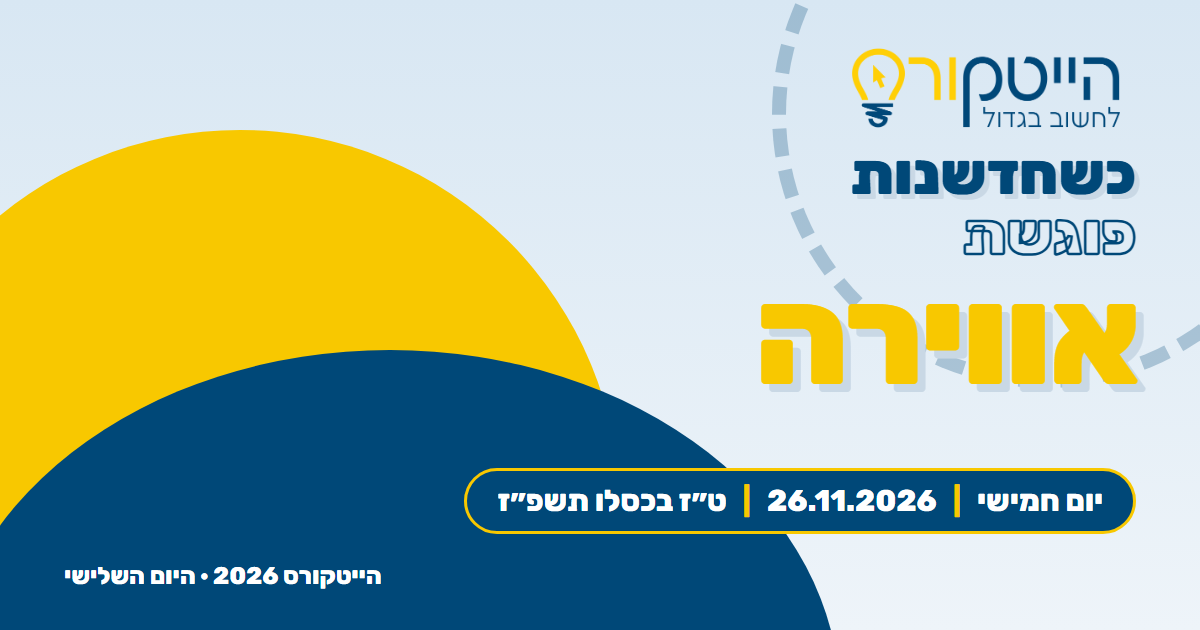
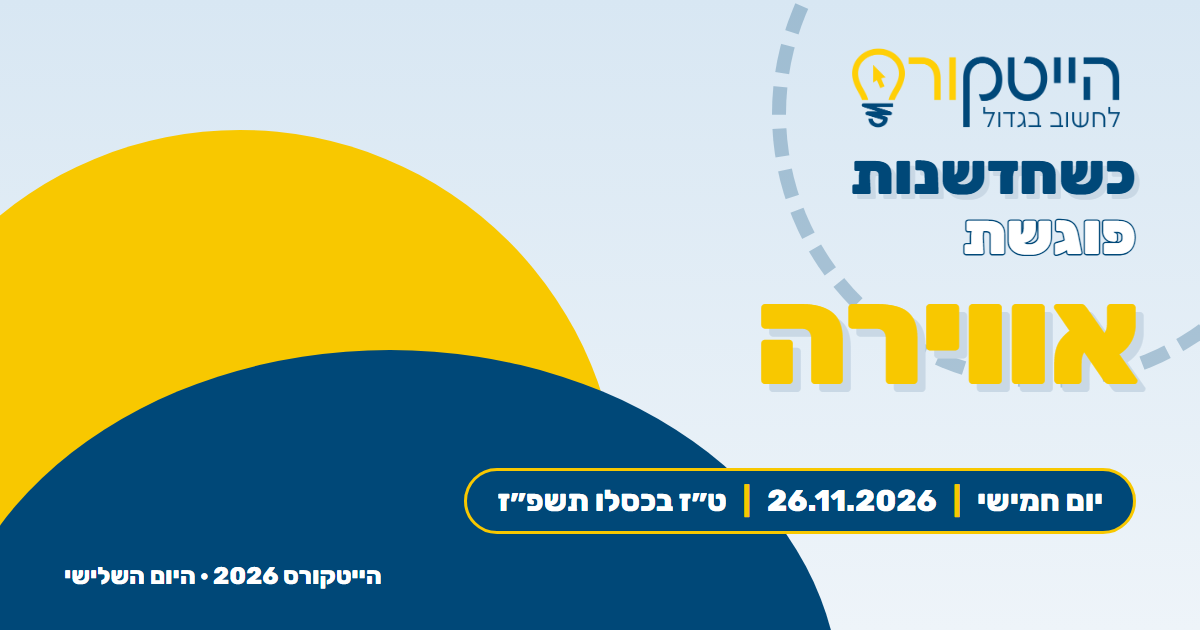
דף הכנס: ״פוגשת״ נקייה, השמות מודגשים, הלוגו של נירית כהן, כרטיס הקבוצה מסודר
The owner's third round (18.11):
- ״פוגשת״ is white with a navy outline (paint-order: stroke fill) - the
  variable font's overlapping contours no longer show as inner lines; the
  share image follows
- ״שבת״ set 1.5× bigger in ״למה לא כל יום שבת.״; the trailing ״..״ after
  ״עונג שבת״ is gone
- the three names (נירית כהן, שירי נשיא, אסתי בר נתן) get a yellow marker
  wherever they appear, a navy pill in the marquee; Nirit Cohen's logo sits
  at the end of the 11:00 row (public/hightecourse-2026/nirit-cohen.png)
- the pricing section lost its heading and the line under it
- the group card: the ribbon moved to the free top-left corner (it covered
  the icon and was clipped), the line through 650 now crosses the digits
- the closing band asks ״לשמור לך מקום?״
- under the headline, her explanation in her words with the emphases in
  navy (״ה-AI מייעל את העבודה… והדרך לשמור על שפיות בעולם התזזיתי שלנו״)
- hc-check: 9 new steps (83)

Changed region(s): [[0.8017, 0.3317, 0.9558, 0.4222]]

diff --git a/src/app/hightecourse-2026/landing.tsx b/src/app/hightecourse-2026/landing.tsx
@@ -6,7 +6,7 @@ import { useEffect, useRef, useState } from "react";
 import { ArrowDown, ArrowLeft, Users, User } from "lucide-react";
 import { H, LOGO, TAGLINE } from "@/app/ai-course/theme";
 import { CONTACT_EMAIL, DAY, PATHS, PRICE, nis } from "@/lib/conference-shared";
-import { MARQUEE, SCHEDULE } from "./content";
+import { MARQUEE, NAMES, SCHEDULE } from "./content";
 
 /*
   The conference's marketing page. Everything that moves, moves with the
@@ -147,7 +147,7 @@ export function Landing() {
         .hc-word { font-weight: 900; line-height: .9; letter-spacing: -0.02em; }
         .hc-word-yellow { color: ${H.yellow}; text-shadow: 7px 7px 0 ${GREY}; }
         .hc-word-navy { color: ${H.navy}; text-shadow: 6px 6px 0 ${GREY}; }
-        .hc-word-outline { color: transparent; -webkit-text-stroke: 2px ${H.navy}; }
+        .hc-word-outline { color: #fff; -webkit-text-stroke: 3px ${H.navy}; paint-order: stroke fill; }
         .hc-pill { display: inline-flex; flex-wrap: wrap; justify-content: center; align-items: center; gap: 2px 14px; color: #fff; background: ${H.navy}; border-radius: 999px; padding: 12px 30px; font-weight: 800; box-shadow: 0 16px 34px rgba(0,72,120,.24); max-width: 100%; }
         .hc-pill > span { white-space: nowrap; }
         .hc-btn { display: inline-flex; align-items: center; justify-content: center; gap: 10px; border-radius: 999px; font-weight: 800; transition: transform .25s ease, box-shadow .25s ease, background .25s ease; text-decoration: none; }
@@ -182,13 +182,17 @@ export function Landing() {
         .hc-row-body { background: #fff; border-radius: 18px; padding: 14px 18px; box-shadow: 0 8px 22px rgba(0,72,120,.08); }
         .hc-row-title { font-weight: 800; color: ${H.ink}; font-size: 17.5px; }
         .hc-row-sub { color: ${H.muted}; font-size: 15.5px; margin-top: 2px; }
-        .hc-name { color: ${H.navy}; font-weight: 700; }
+        .hc-name { color: ${H.navy}; font-weight: 900; padding: 0 3px; box-shadow: inset 0 -0.42em ${H.yellowSoft}; }
+        .hc-track .hc-name { background: ${H.navy}; color: ${H.yellow}; padding: 2px 12px; border-radius: 999px; box-shadow: none; }
+        .hc-big { font-size: 1.5em; font-weight: 900; color: ${H.navy}; line-height: 1; }
+        .hc-row-flex { display: flex; align-items: center; justify-content: space-between; gap: 14px; flex-wrap: wrap; }
+        .hc-row-logo { height: 46px; width: auto; flex: none; }
         .hc-price { border-radius: 30px; padding: 30px 28px; position: relative; overflow: hidden; }
         .hc-price-single { background: ${TINT}; }
         .hc-price-group { background: ${H.navy}; color: #fff; }
-        .hc-badge { position: absolute; top: 18px; inset-inline-start: -34px; transform: rotate(45deg); background: ${H.yellow}; color: ${H.navy}; font-weight: 800; font-size: 13px; padding: 6px 44px; }
-        .hc-strike { position: relative; display: inline-block; opacity: .75; }
-        .hc-strike::after { content: ""; position: absolute; inset-inline: -4px; top: 52%; height: 3px; background: ${H.yellow}; transform: rotate(-8deg) scaleX(0); transform-origin: right; transition: transform .6s ease .6s; }
+        .hc-badge { position: absolute; top: 34px; left: -48px; width: 200px; text-align: center; transform: rotate(-45deg); background: ${H.yellow}; color: ${H.navy}; font-weight: 800; font-size: 13px; padding: 7px 0; box-shadow: 0 6px 16px rgba(0,0,0,.18); }
+        .hc-strike { position: relative; display: inline-block; opacity: .85; line-height: 1; }
+        .hc-strike::after { content: ""; position: absolute; inset-inline: -5px; top: 46%; height: 3px; background: ${H.yellow}; transform: rotate(-6deg) scaleX(0); transform-origin: right; transition: transform .6s ease .6s; }
         .hc-in .hc-strike::after { transform: rotate(-8deg) scaleX(1); }
         .hc-wave { display: block; width: 100%; height: auto; }
         @media (max-width: 640px) {
@@ -259,7 +263,14 @@ export function Landing() {
                 אווירה
               </span>
             </h1>
-            <div className="hc-reveal mt-8" style={{ ["--d" as string]: "600ms" }}>
+            <p className="hc-reveal mt-6 max-w-xl text-[17px] leading-relaxed sm:text-[19px]" style={{ color: H.ink, ["--d" as string]: "540ms" }} data-testid="hc-hero-text">
+              ה-AI מייעל את העבודה, מעלה את הקצב. <b style={{ color: H.navy }}>אבל איך הוא משפיע עלינו?</b>
+              <br className="hidden sm:inline" />
+              יום שלם של <b style={{ color: H.navy }}>דיון, שיקוף וידע מקצועי</b> על השפעת ה-AI עלינו <b style={{ color: H.navy }}>כבני אדם</b>,
+              <br className="hidden sm:inline" />
+              והדרך <b style={{ color: H.navy }}>לשמור על שפיות</b> בעולם התזזיתי שלנו.
+            </p>
+            <div className="hc-reveal mt-7" style={{ ["--d" as string]: "640ms" }}>
               <span className="hc-pill text-[20px] sm:text-[26px]" data-testid="hc-date">
                 <span>{DAY.label}</span>
                 <span aria-hidden style={{ color: H.yellow }}>
@@ -272,7 +283,7 @@ export function Landing() {
                 <span>{DAY.hebrew}</span>
               </span>
             </div>
-            <div className="hc-reveal mt-9 flex flex-wrap items-center gap-4" style={{ ["--d" as string]: "720ms" }}>
+            <div className="hc-reveal mt-8 flex flex-wrap items-center gap-4" style={{ ["--d" as string]: "760ms" }}>
               <Link href={REGISTER} className="hc-btn hc-btn-primary" data-testid="hc-hero-cta">
                 הרשמי עכשיו
                 <ArrowLeft size={20} strokeWidth={2.6} />
@@ -318,7 +329,7 @@ export function Landing() {
             <span key={copy} dir="rtl">
               {MARQUEE.map((m) => (
                 <span key={m}>
-                  {m}
+                  {markup(m, marks(NAMES))}
                   <i />
                 </span>
               ))}
@@ -354,10 +365,13 @@ export function Landing() {
                   {s.time}
                 </div>
                 <div aria-hidden />
-                <div className="hc-row-body">
-                  <div className="hc-row-title">{s.title}</div>
-                  {s.sub && <div className="hc-row-sub">{s.names?.length ? highlightNames(s.sub, s.names) : s.sub}</div>}
-                  {s.hand && <div className="hc-hand mt-1 text-[15px]">{s.hand}</div>}
+                <div className={`hc-row-body${s.logo ? " hc-row-flex" : ""}`}>
+                  <div>
+                    <div className="hc-row-title">{markup(s.title, marks(s.names, s.big))}</div>
+                    {s.sub && <div className="hc-row-sub">{markup(s.sub, marks(s.names))}</div>}
+                    {s.hand && <div className="hc-hand mt-1 text-[15px]">{s.hand}</div>}
+                  </div>
+                  {s.logo && <Image src={s.logo.src} alt={s.logo.alt} width={s.logo.width} height={s.logo.height} className="hc-row-logo" />}
                 </div>
               </div>
             ))}
@@ -367,15 +381,7 @@ export function Landing() {
 
       {/* pricing */}
       <section id="pricing" className="mx-auto max-w-6xl px-5 py-20 sm:py-24">
-        <div className="hc-reveal max-w-2xl">
-          <h2 className="text-[34px] font-black leading-tight sm:text-[46px]" style={{ color: H.navy }}>
-            ההרשמה ליום חמישי
-          </h2>
-          <p className="mt-3 text-[17px] leading-relaxed" style={{ color: H.muted }}>
-            לבד או עם הצוות - בוחרות, ממלאות פרטים, ומשלמות בכרטיס אשראי או בהעברה בנקאית מול חשבונית.
-          </p>
-        </div>
-        <div className="mt-10 grid gap-6 md:grid-cols-2" data-testid="hc-pricing">
+        <div className="grid gap-6 md:grid-cols-2" data-testid="hc-pricing">
           <div className="hc-price hc-price-single hc-reveal hc-from-right">
             <div className="flex items-center gap-3">
               <span className="inline-flex h-12 w-12 items-center justify-center rounded-2xl" style={{ background: H.white, color: H.navy }}>
@@ -404,7 +410,7 @@ export function Landing() {
           <div className="hc-price hc-price-group hc-reveal hc-from-left" style={{ ["--d" as string]: "140ms" }}>
             <div className="hc-badge">מחיר מיוחד לקבוצות</div>
             <div className="flex items-center gap-3">
-              <span className="inline-flex h-12 w-12 items-center justify-center rounded-2xl" style={{ background: "rgba(255,255,255,.14)", color: H.yellow }}>
+              <span className="inline-flex h-12 w-12 items-center justify-center rounded-2xl" style={{ background: "rgba(255,255,255,.14)", color: H.yellow }} data-testid="hc-group-icon">
                 <Users size={24} strokeWidth={2.4} />
               </span>
               <h3 className="text-[24px] font-black text-white">קבוצה - מעל {PRICE.groupMin - 1} משתתפות</h3>
@@ -416,7 +422,7 @@ export function Landing() {
               <span className="pb-2 text-[22px] font-black" style={{ color: H.yellow }}>
                 ₪
               </span>
-              <span className="hc-strike pb-2 text-[26px] font-bold text-white" dir="ltr" data-testid="hc-price-strike">
+              <span className="hc-strike mb-2 text-[26px] font-bold text-white" data-testid="hc-price-strike">
                 {nis(PRICE.single)} ₪
               </span>
             </div>
@@ -440,7 +446,7 @@ export function Landing() {
         </div>
         <div className="relative mx-auto flex max-w-4xl flex-col items-center px-5 py-20 text-center sm:py-24">
           <h2 className="hc-reveal text-[36px] font-black leading-tight text-white sm:text-[52px]">
-            שומרות לך <span style={{ color: H.yellow }}>מקום?</span>
+            לשמור לך <span style={{ color: H.yellow }}>מקום?</span>
           </h2>
           <p className="hc-reveal mt-4 max-w-xl text-[17px] leading-relaxed" style={{ color: "#C9D9E6", ["--d" as string]: "120ms" }}>
             {DAY.label}, <span dir="ltr">{DAY.date}</span>, {DAY.hebrew}. ההרשמה לוקחת שתי דקות.
@@ -469,16 +475,25 @@ export function Landing() {
   );
 }
 
-/** The brochure sets the speakers' names in navy - same here. */
-function highlightNames(text: string, names: string[]): React.ReactNode {
+type Mark = { text: string; cls: string };
+
+function marks(names?: string[], big?: string): Mark[] {
+  const out: Mark[] = (names ?? []).map((n) => ({ text: n, cls: "hc-name" }));
+  if (big) out.push({ text: big, cls: "hc-big" });
+  return out;
+}
+
+/** The brochure sets the speakers' names in navy - here they get a marker too (the owner: ״תדגיש את השמות בכל מקום״); `big` enlarges one word. */
+function markup(text: string, ms: Mark[]): React.ReactNode {
+  if (!ms.length) return text;
   const parts: React.ReactNode[] = [];
   let rest = text;
   let key = 0;
   while (rest.length) {
-    let found: { i: number; name: string } | null = null;
-    for (const n of names) {
-      const i = rest.indexOf(n);
-      if (i >= 0 && (!found || i < found.i)) found = { i, name: n };
+    let found: { i: number; m: Mark } | null = null;
+    for (const m of ms) {
+      const i = rest.indexOf(m.text);
+      if (i >= 0 && (!found || i < found.i)) found = { i, m };
     }
     if (!found) {
       parts.push(rest);
@@ -486,11 +501,11 @@ function highlightNames(text: string, names: string[]): React.ReactNode {
     }
     if (found.i > 0) parts.push(rest.slice(0, found.i));
     parts.push(
-      <span key={key++} className="hc-name">
-        {found.name}
+      <span key={key++} className={found.m.cls}>
+        {found.m.text}
       </span>
     );
-    rest = rest.slice(found.i + found.name.length);
+    rest = rest.slice(found.i + found.m.text.length);
   }
   return parts;
 }

diff --git a/src/app/hightecourse-2026/content.ts b/src/app/hightecourse-2026/content.ts
@@ -9,19 +9,32 @@ export interface ScheduleItem {
   title: string;
   sub?: string;
   hand?: string;
-  /** Names set in navy on the brochure. */
+  /** Names set in navy on the brochure - marked on the page. */
   names?: string[];
+  /** One word of the title set bigger (the owner: ״תגדיל את המילה שבת״). */
+  big?: string;
+  /** A speaker's logo shown in the row. */
+  logo?: { src: string; alt: string; width: number; height: number };
 }
+
+/** The speakers - marked wherever they appear. */
+export const NAMES = ["נירית כהן", "שירי נשיא", "אסתי בר נתן"];
 
 export const SCHEDULE: ScheduleItem[] = [
   { time: "08:00", title: "התכנסות ובופה בוקר עשיר" },
   { time: "08:45", title: "עמדת השפעה.", sub: "תני את הטאץ׳ שלך" },
   { time: "09:00", title: "המסע אל אי השפיות.", sub: "משחק קבוצתי אתגרי" },
-  { time: "11:00", title: "בדרך לעולם של פחות עבודה.", sub: "נירית כהן - עולם העבודה העתידי", names: ["נירית כהן"] },
+  {
+    time: "11:00",
+    title: "בדרך לעולם של פחות עבודה.",
+    sub: "נירית כהן - עולם העבודה העתידי",
+    names: ["נירית כהן"],
+    logo: { src: "/hightecourse-2026/nirit-cohen.png", alt: "נירית כהן - עולם העבודה העתידי", width: 162, height: 49 },
+  },
   { time: "12:15", title: "על מי אני עובדת?", sub: "מונודרמה סטירית על החיים בגרסה משופרת.", hand: "אל תגידי עוד רגע..." },
   { time: "13:15", title: "הגרלות 2026", sub: "מי הזוכות שלנו הפעם?" },
   { time: "13:45", title: "ארוחת צהריים בשרית" },
-  { time: "15:15", title: "למה לא כל יום שבת.", sub: "שירי נשיא מארחת את אסתי בר נתן למופע שכולו עונג שבת..", names: ["שירי נשיא", "אסתי בר נתן"], hand: "ליווי מוזיקלי מורחב" },
+  { time: "15:15", title: "למה לא כל יום שבת.", big: "שבת", sub: "שירי נשיא מארחת את אסתי בר נתן למופע שכולו עונג שבת", names: ["שירי נשיא", "אסתי בר נתן"], hand: "ליווי מוזיקלי מורחב" },
   { time: "17:00", title: "ניפגש בשנה הבאה (:" },
 ];
 
